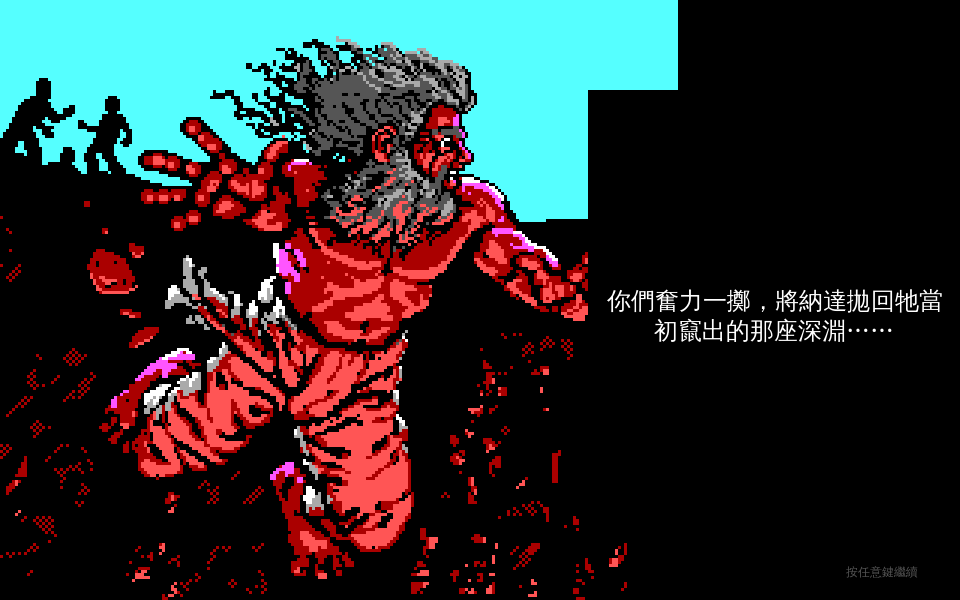
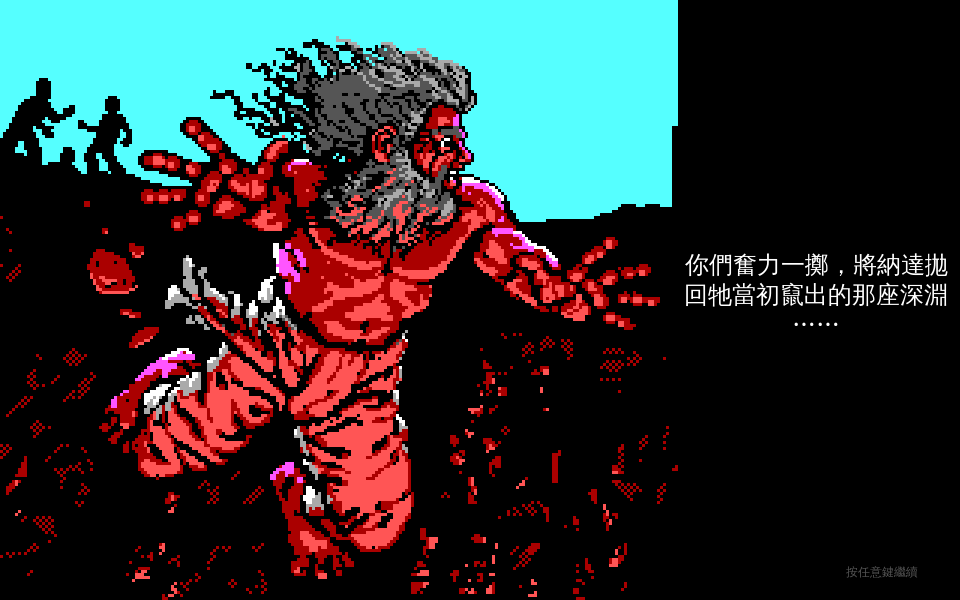
fix(ending): scene 24 擦除框右移,不再蓋到納達的手
「換字不換版」的英文擦除框(沿用 scene_localize 的 196,30,124,150)起點太左 31px,
黑框蓋到納達向右張開的手指、視覺突兀。比對英文原圖:納達右手指尖到 x≈220,英文字塊
在 x≈227–320(同為黑底)。改框為 224,42,96,112 —— 只蓋英文區、避開手;繁中敘事落在
右側淨黑區,黑蓋黑無接縫。重生 ending_namtar_pit.png showcase。

diff --git a/opendw_remake/src/render/ui_theme.hpp b/opendw_remake/src/render/ui_theme.hpp
@@ -174,7 +174,7 @@ inline const std::vector<UiTheme>& theme_list() {
     // 擦除框 = 原版英文敘事烤進的黑底區(座標沿用 tools_build/scene_localize.py 實測):
     //   24 英文在右側、25/26/27 在下方。非英文語系填黑該框 + 框內畫在地化敘事(取代字幕條)。
     dos.ending = {
-      {"24", TitleSource::kDosScene, kEndingNarr24, 196, 30, 124, 150},
+      {"24", TitleSource::kDosScene, kEndingNarr24, 224, 42, 96, 112},
       {"25", TitleSource::kDosScene, kEndingNarr25,   0, 140, 320,  60},
       {"26", TitleSource::kDosScene, kEndingNarr26,   0, 128, 320,  72},
       {"27", TitleSource::kDosScene, kEndingNarr27,   0, 116, 320,  84},
